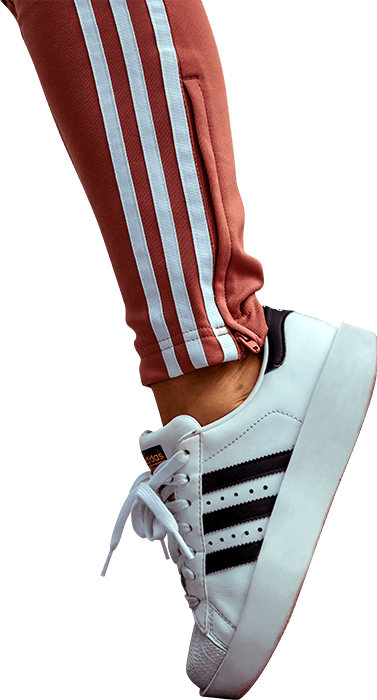
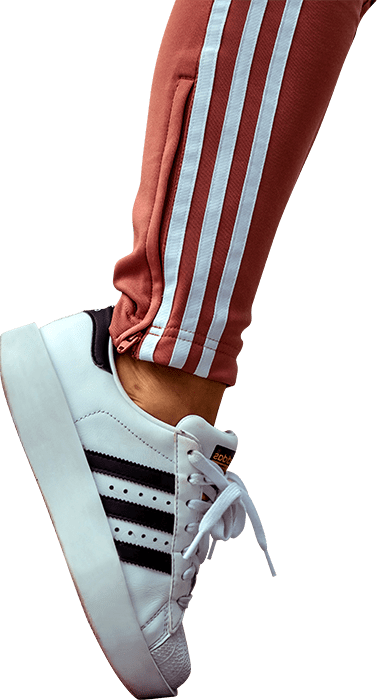
Left-align the title block; take Sarah's re-exported trainer image

diff --git a/pronunciation/short-long-i/index.html b/pronunciation/short-long-i/index.html
@@ -107,10 +107,10 @@ h1,h2,h3{line-height:1.02;letter-spacing:-.01em}
 #s1{background:var(--pink)}
 #s1 .inner{
   position:absolute;inset:44px 70px;background:var(--cyan);
-  display:flex;flex-direction:column;align-items:flex-end;justify-content:center;
-  padding:0 66px 0 430px;                    /* right-hand text column */
+  display:flex;flex-direction:column;align-items:flex-start;justify-content:center;
+  padding:0 60px 0 470px;                    /* right-hand text column, ragged right */
 }
-#s1 h1{font-size:76px;color:var(--yellow);text-align:right}
+#s1 h1{font-size:76px;color:var(--yellow);text-align:left}
 .start{
   margin-top:28px;background:var(--pink);color:var(--yellow);
   font:italic 800 34px/1 'Montserrat',sans-serif;letter-spacing:.02em;
